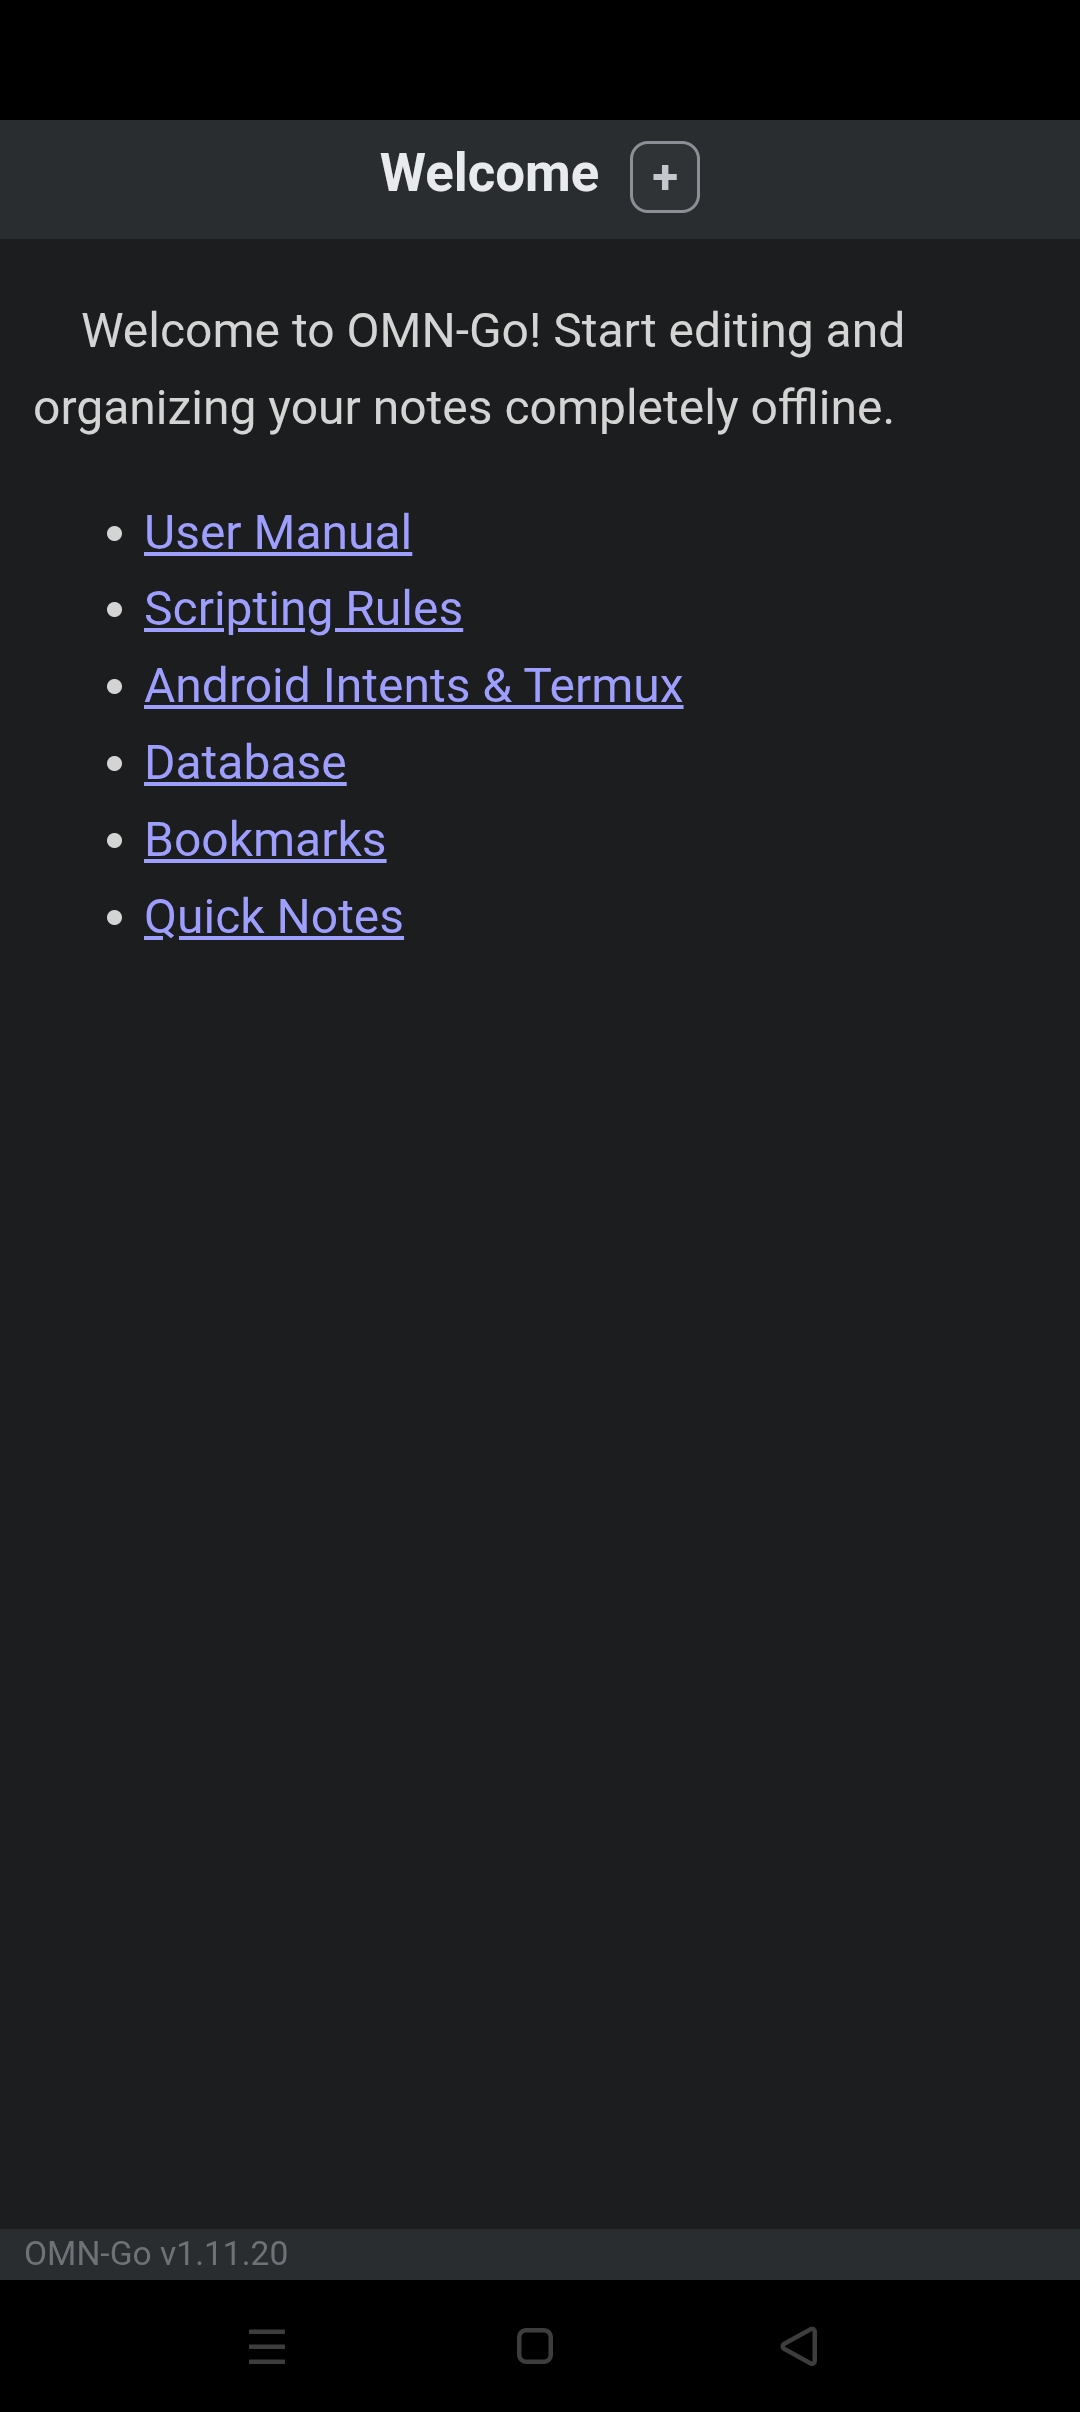
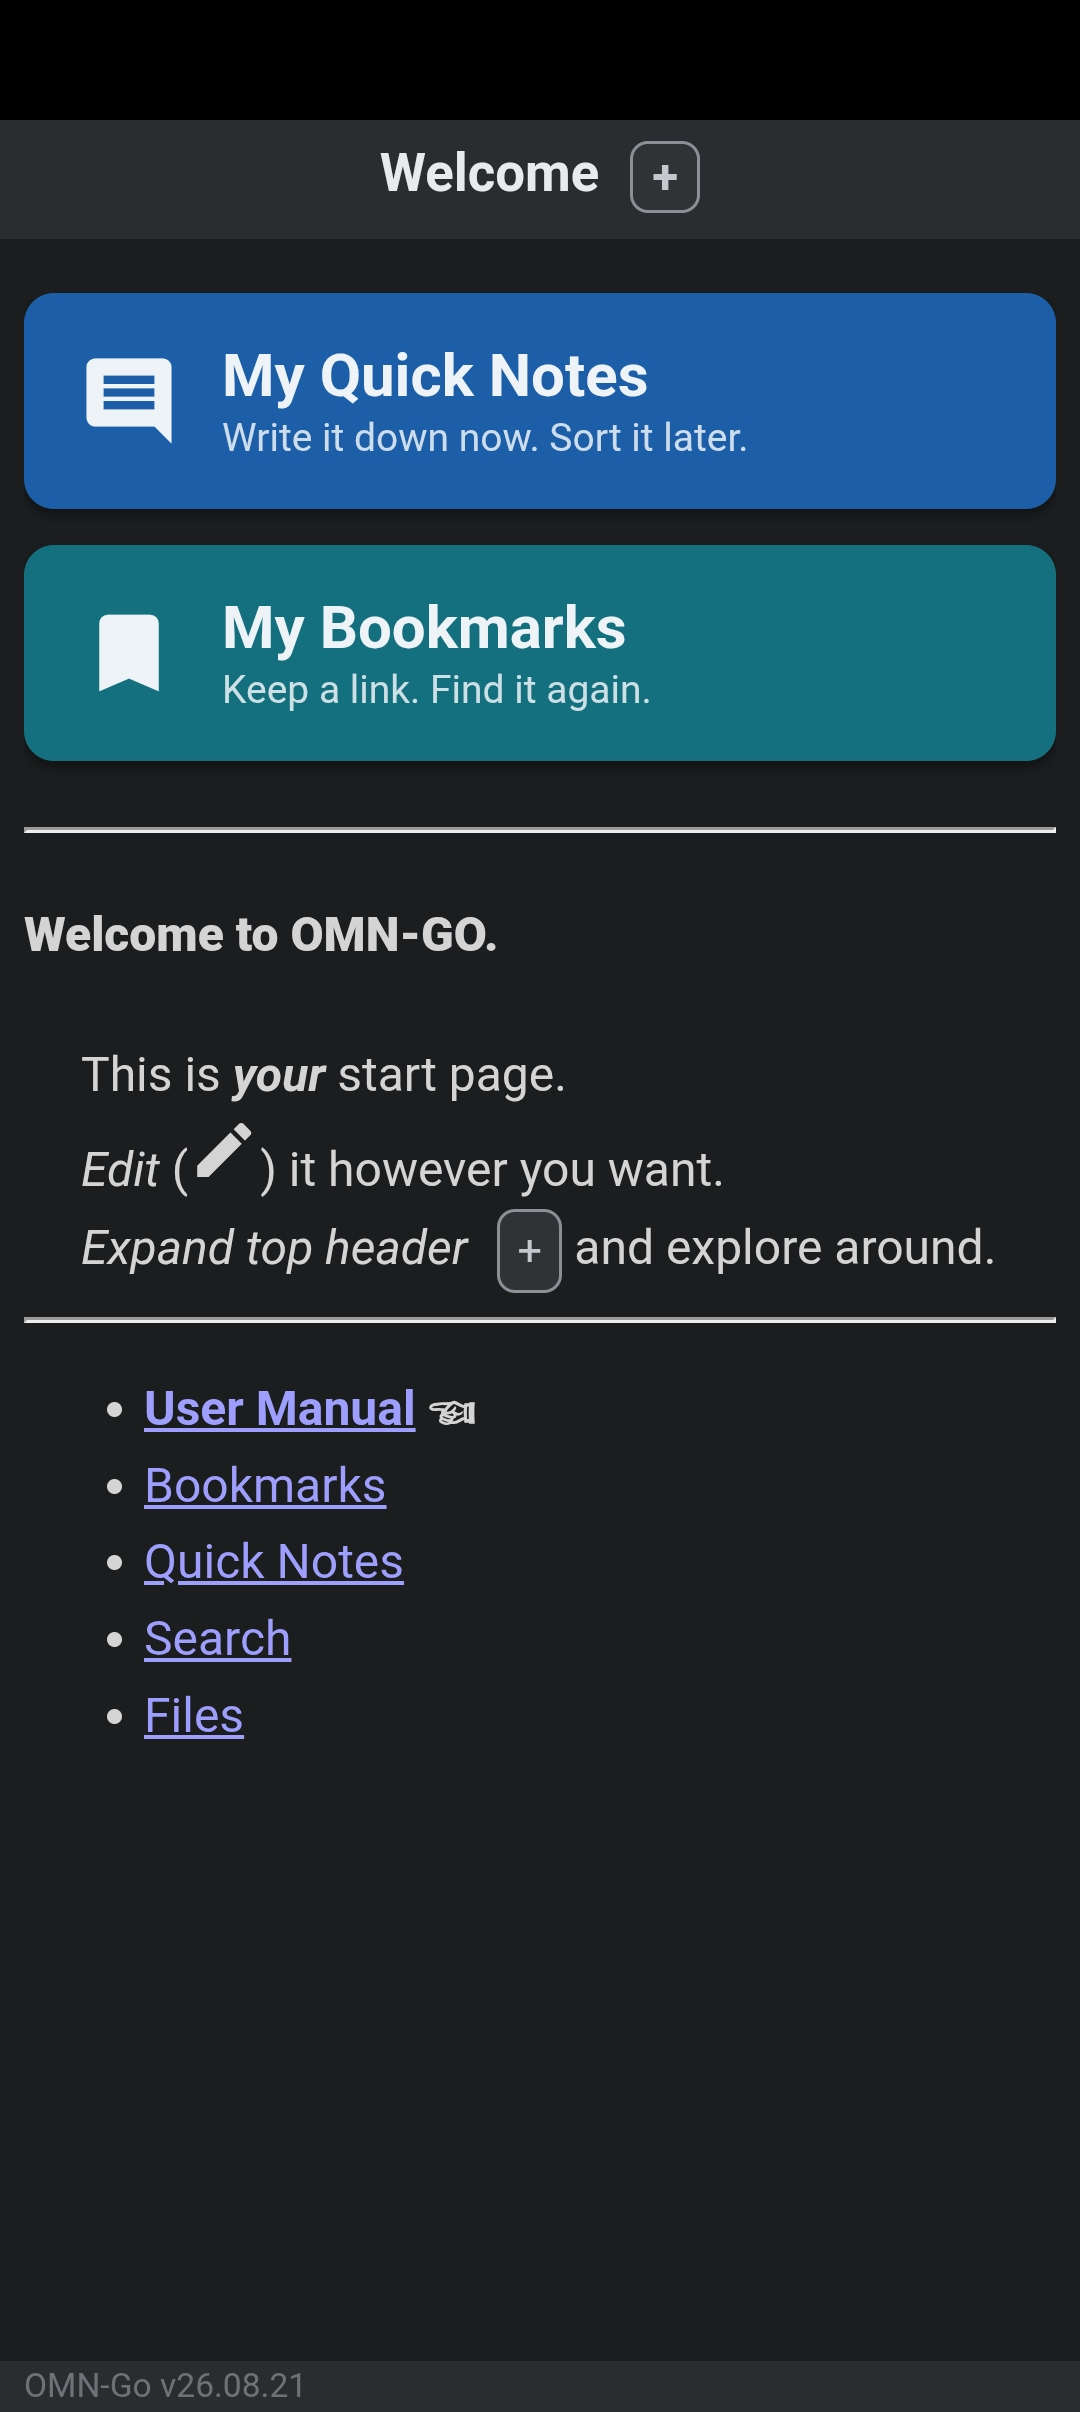
release(fdroid): prepare metadata fo v26.08.21

diff --git a/README.md b/README.md
@@ -9,13 +9,10 @@ OMN-Go replaces the original [mvbasov/OMN](https://github.com/mvbasov/OMN) proje
     <img alt="Get it on GitLab" src="https://img.shields.io/badge/Get_it_on-GitLab-FC6D26?style=for-the-badge&amp;logo=gitlab&amp;logoColor=white">
   </a><img width="14" alt="" src="https://placehold.co/14x28/transparent/transparent.png"><a href="https://github.com/mvbasov/OMN-Go/releases/latest">
     <img alt="Get it on GitHub" src="https://img.shields.io/badge/Get_it_on-GitHub-6e5494?style=for-the-badge&amp;logo=github&amp;logoColor=white">
+  </a><img width="14" alt="" src="https://placehold.co/14x28/transparent/transparent.png"><a href="https://f-droid.org/packages/net.basov.omngo">
+    <img alt="Get it on F-Droid" src="https://img.shields.io/badge/Get_it_on-F--Droid-1976D2?style=for-the-badge&amp;logo=fdroid&amp;logoColor=white">
   </a>
 </p>
-<!--
-F-Droid — uncomment once published (it's already in its own centered paragraph, so it stays on the line below the other two on every screen size):
-<p align="center"><a href="https://f-droid.org/packages/net.basov.omngo"><img alt="Get it on F-Droid" src="https://img.shields.io/badge/Get_it_on-F--Droid-1976D2?style=for-the-badge&amp;logo=fdroid&amp;logoColor=white"></a></p>
--->
-
 
 > [!NOTE]
 > **Not on Google Play.** OMN-Go will never be published on the Google Play Store. Google's policies do not allow some optional convenience features of OMN-Go, such as its background web service. I will not remove or restrict these features to comply.
